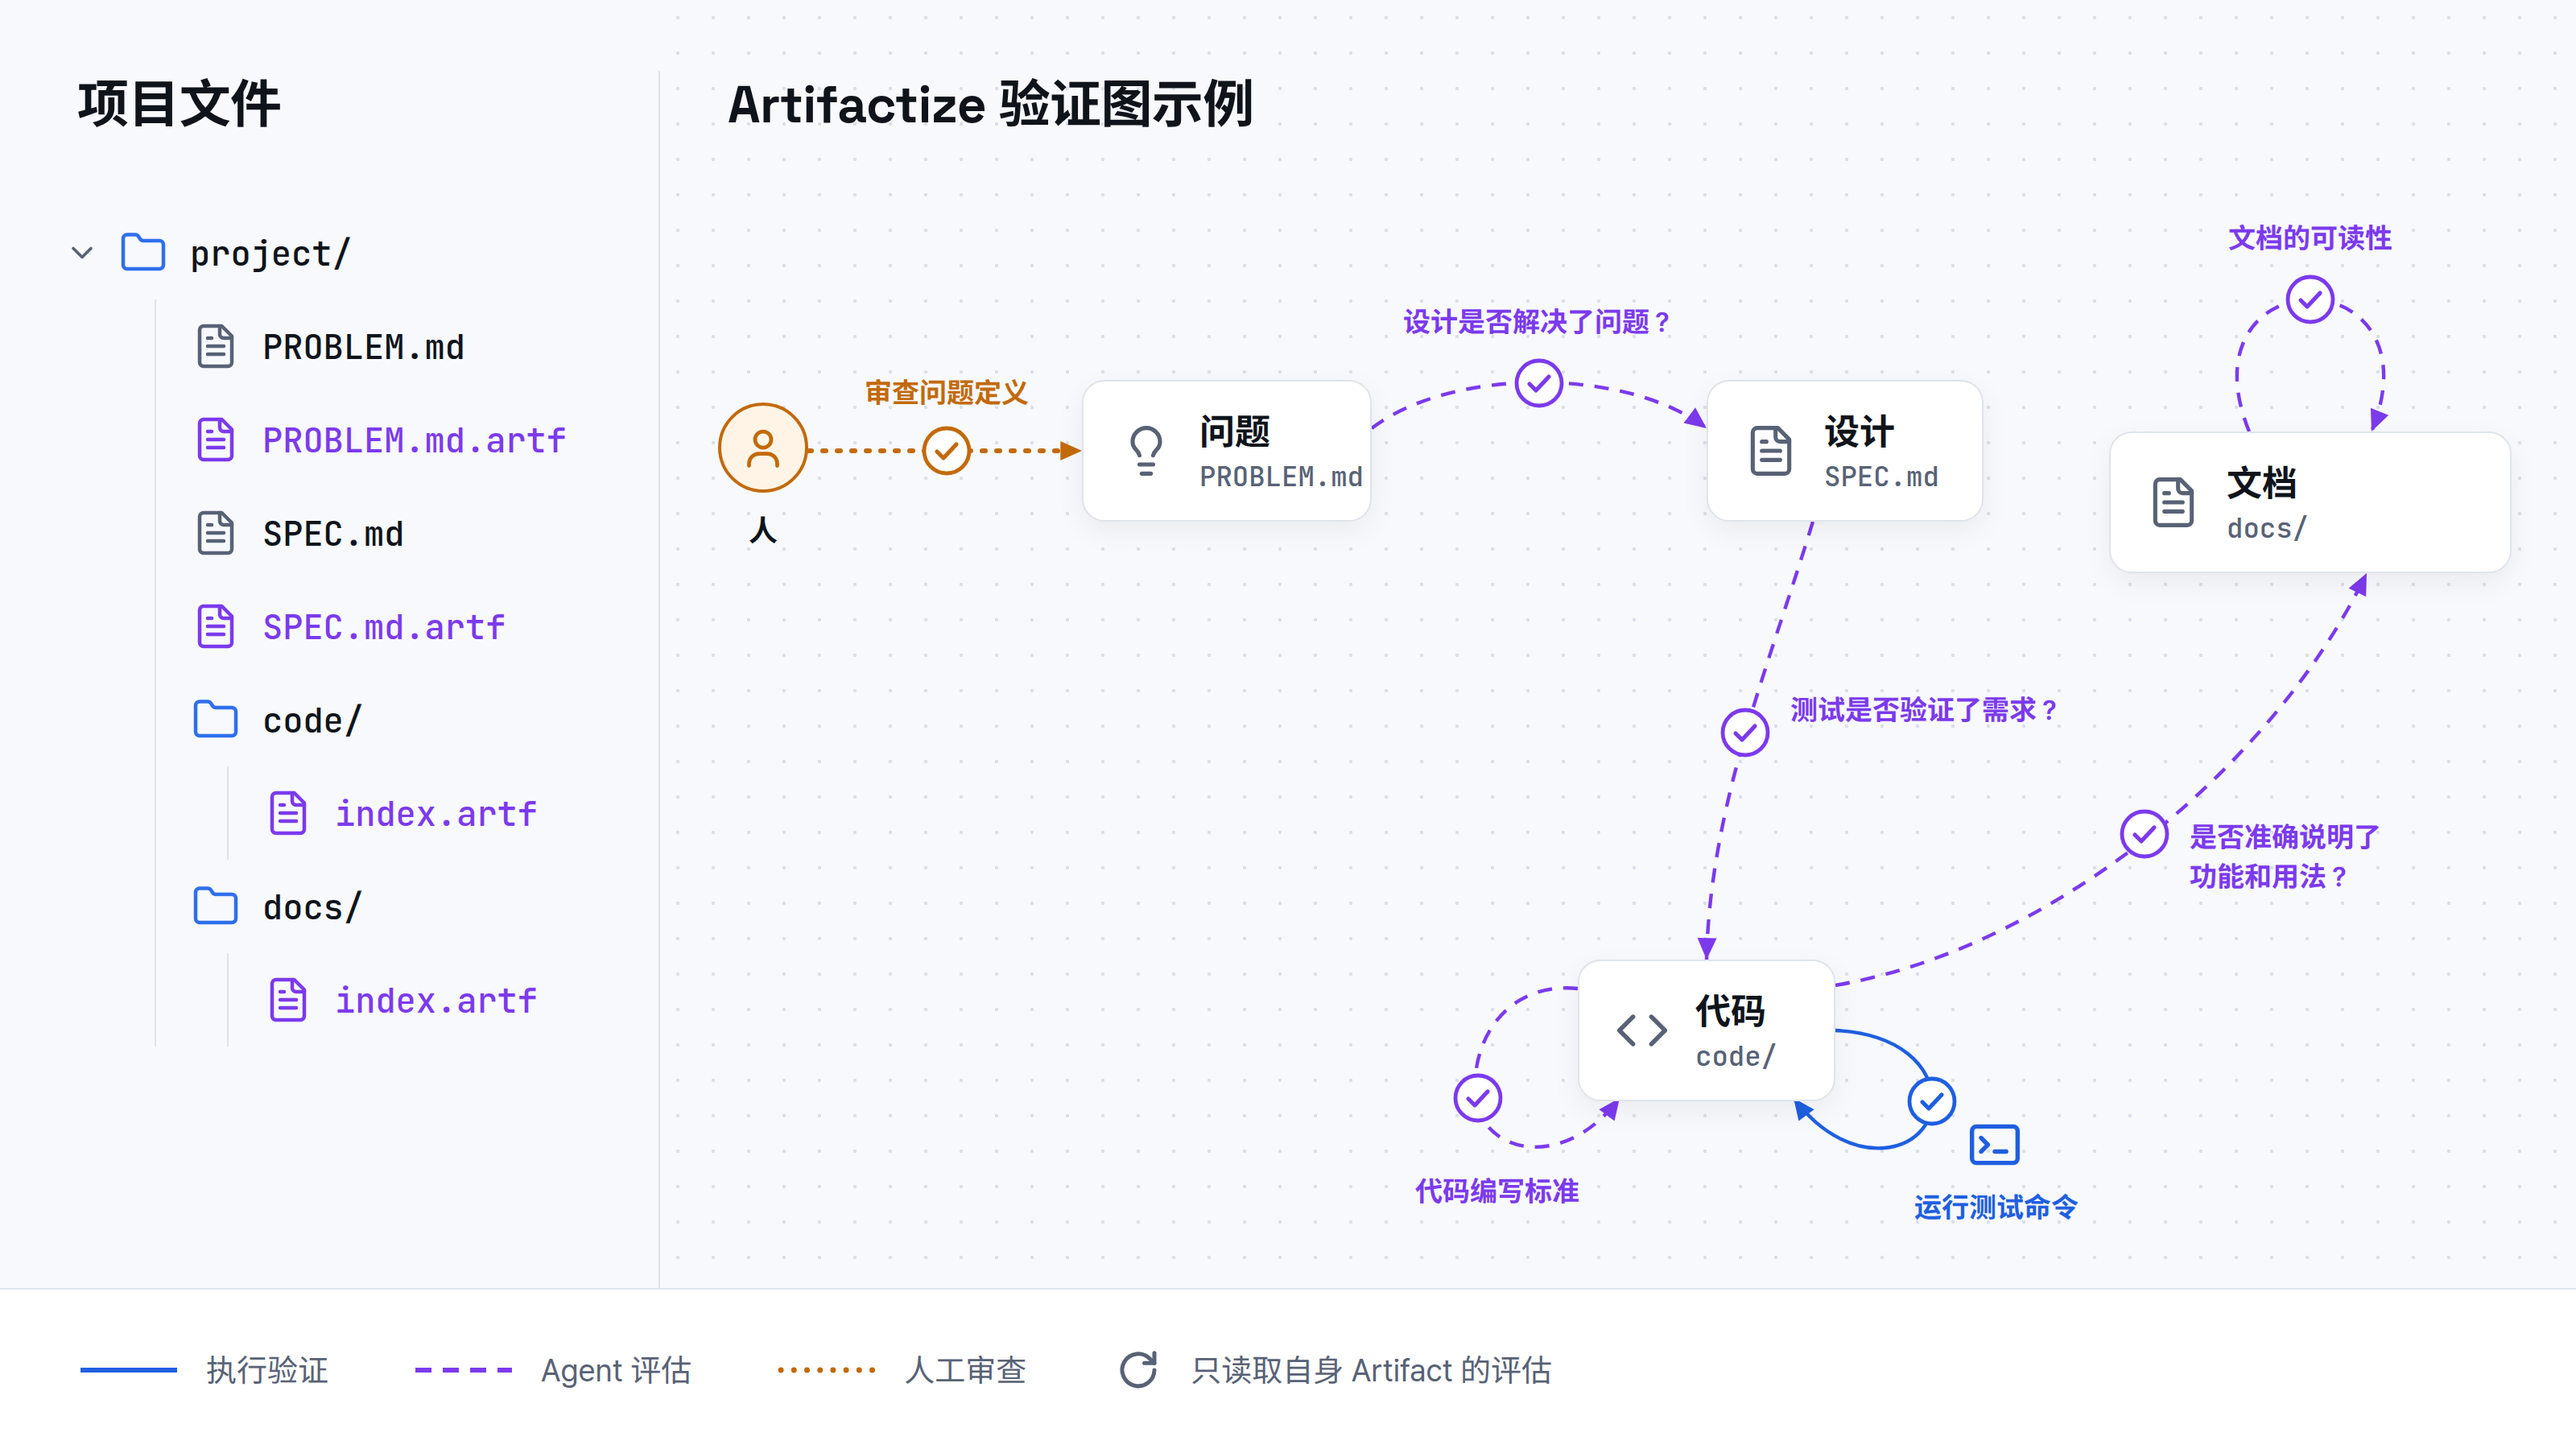
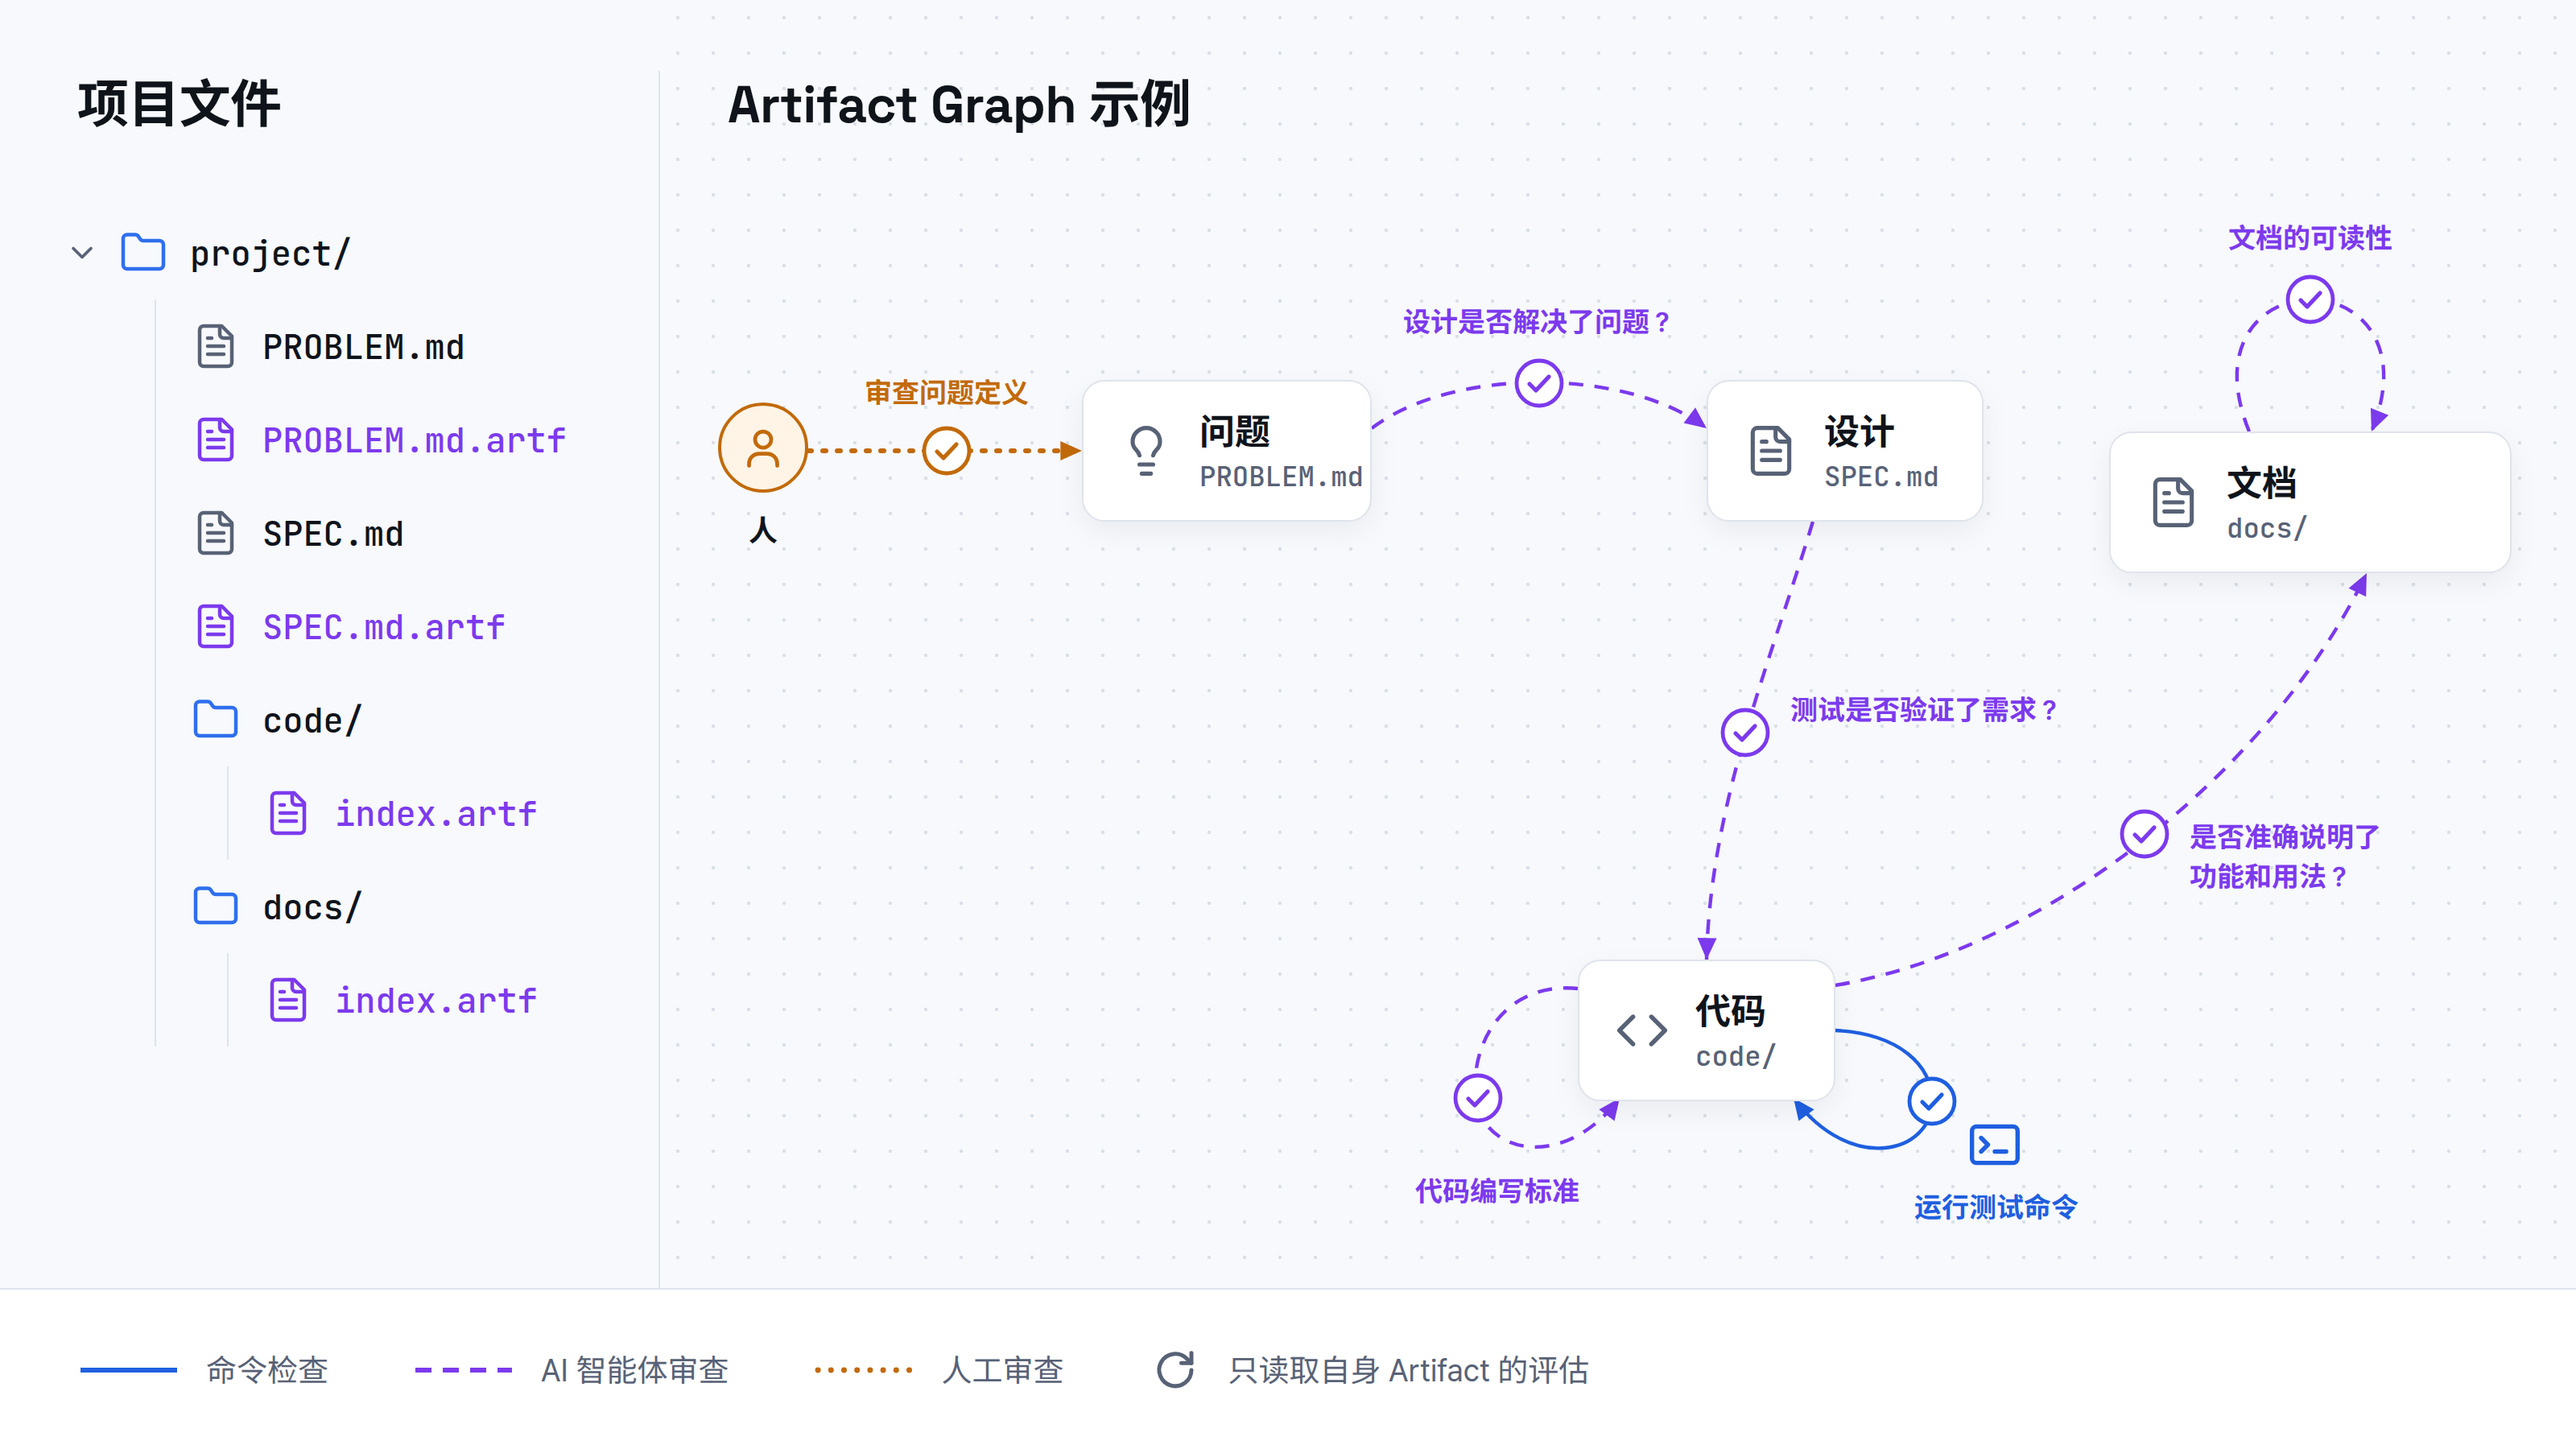
docs(website): graph example keeps the Artifact Graph name and legend kinds; README.kr wording

diff --git a/assets/others/graph-example.html b/assets/others/graph-example.html
@@ -298,7 +298,7 @@
     },
     ko: {
       repository: "프로젝트 파일",
-      title: "Artifactize 검증 그래프 예시",
+      title: "Artifact Graph 예시",
       person: "사람",
       problem: "문제",
       spec: "설계",
@@ -311,14 +311,14 @@
       readable: "문서의 가독성",
       codingRules: "코드 작성 기준",
       runsTests: "테스트 명령 실행",
-      legendRuntime: "실행 검증",
-      legendAgent: "Agent 평가",
+      legendRuntime: "명령 검사",
+      legendAgent: "AI 에이전트 검토",
       legendHuman: "사람 검토",
       legendSelf: "자기 Artifact만 읽는 평가",
     },
     zh: {
       repository: "项目文件",
-      title: "Artifactize 验证图示例",
+      title: "Artifact Graph 示例",
       person: "人",
       problem: "问题",
       spec: "设计",
@@ -331,8 +331,8 @@
       readable: "文档的可读性",
       codingRules: "代码编写标准",
       runsTests: "运行测试命令",
-      legendRuntime: "执行验证",
-      legendAgent: "Agent 评估",
+      legendRuntime: "命令检查",
+      legendAgent: "AI 智能体审查",
       legendHuman: "人工审查",
       legendSelf: "只读取自身 Artifact 的评估",
     },

diff --git a/assets/readme/README.kr.md b/assets/readme/README.kr.md
@@ -113,8 +113,8 @@ codex plugin add artifactize@artifactize
 맡았을 뿐이며, 아무것도 제출되지 않았습니다. 텍스트 기반 앱(CLI)에도 Monitor와
 Review 화면이 있습니다.
 
-**통과할 때까지 고치기:** 한 예제에서 Run을 네 번 실행하는 과정을 8배속으로 보여 줍니다. Run 사이에
-녹화 스크립트가 실패한 부분을 제거해 AI가 코드를 고치는 과정을 대신합니다. 바뀌지 않은
+**통과할 때까지 고치기:** 한 예제에서 Run을 네 번 실행하는 과정을 8배속으로 보여 줍니다. Run 사이에는
+AI가 코드를 고치는 대신 녹화 스크립트가 실패한 부분을 지웁니다. 바뀌지 않은
 부분은 이전 결과를 바로 재사용합니다.
 
 <img src="../demos/review-loop.gif" width="1200" alt="Artifactize 데스크톱 앱에서 한 브랜치의 Run 네 번을 실제로 녹화한 화면: 실패한 항목은 빨간색으로 표시되고 Run 사이에 고쳐지며, 바뀌지 않은 부분은 이전 결과를 재사용하고, 네 번째 Run에서 모든 조건이 충족됩니다.">
@@ -134,6 +134,6 @@ core가 통과했고, cli의 테스트가 실패해 docs는 막혔으며, releas
 
 <img src="../screenshots/detail.png" width="1200" alt="실제 Artifactize 데스크톱 앱의 cli Artifact Detail: 이웃인 core와 docs, 그리고 lint와 tests 검사.">
 
-**Review:** 예시 리뷰어가 승인 요청 목록에서 release 승인 요청을 열어 맡은 다음, notes 도구를 실행하고 GREEN 양식을 열어 둔 화면입니다.
+**Review:** 예시 리뷰어가 승인 요청 목록에서 release 승인 요청을 열고 리뷰를 맡은 다음, notes 도구를 실행하고 GREEN 양식을 열어 둔 화면입니다.
 
 <img src="../screenshots/review.png" width="1200" alt="실제 Artifactize 데스크톱 Review: 예제에서 리뷰어가 맡은 승인 요청과 검토 지침, notes 도구, 도구 로그, GREEN 양식.">
